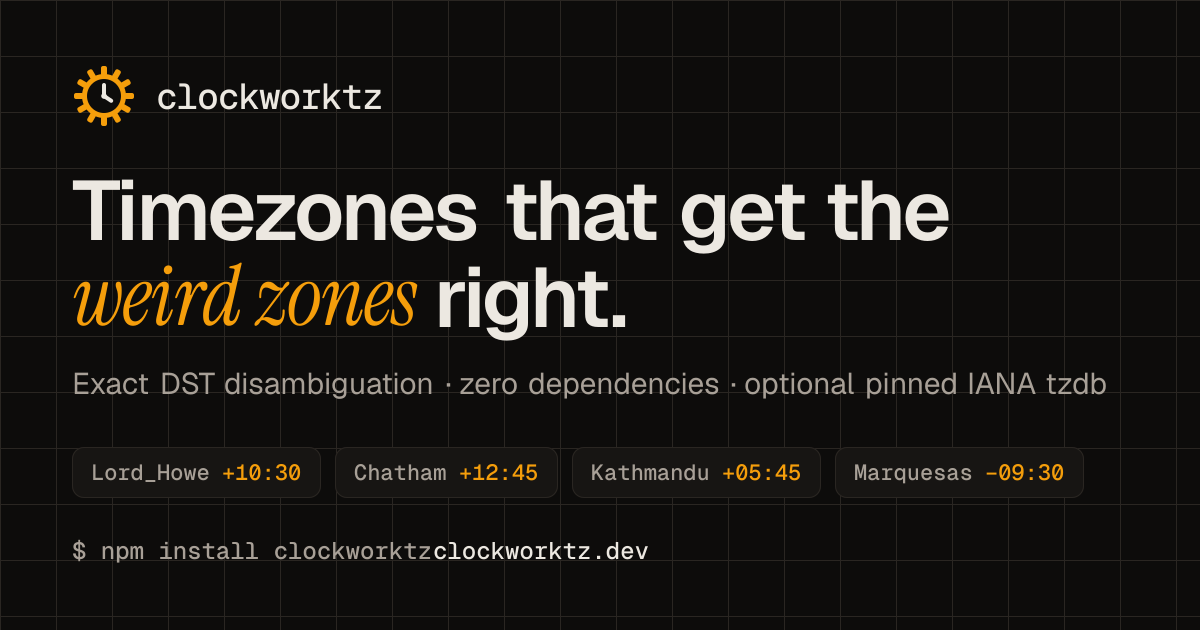
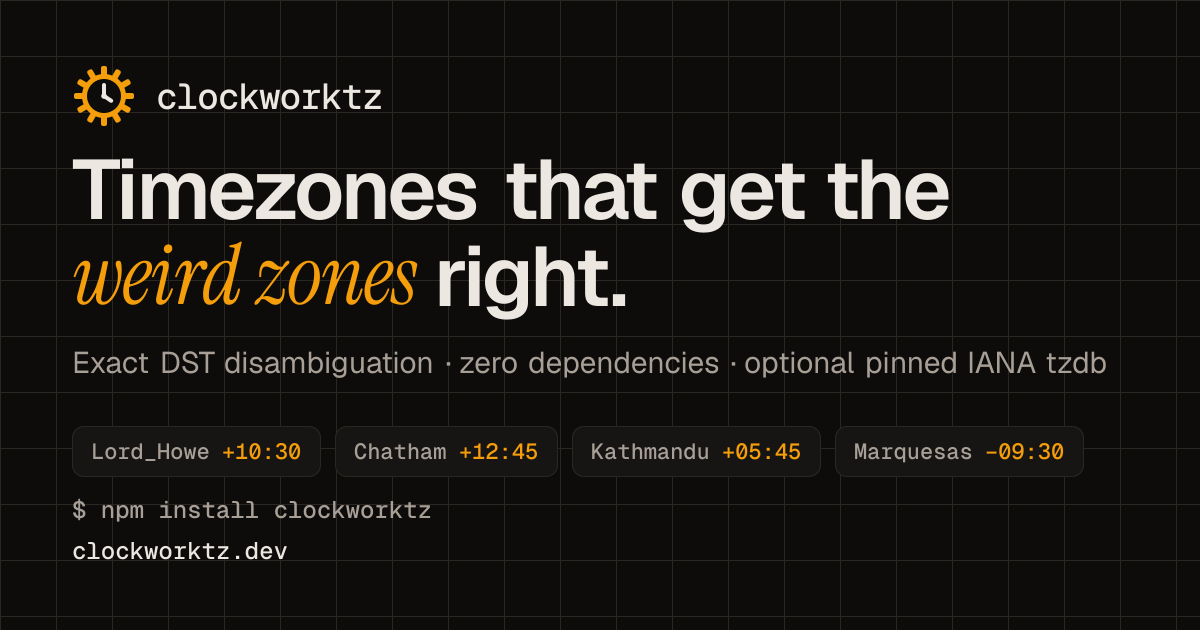
adjust og card

diff --git a/src/lib/og.tsx b/src/lib/og.tsx
@@ -103,10 +103,10 @@ export async function renderHomeOg() {
     (
       <Frame
         footer={
-          <>
+          <div style={{ display: 'flex', flexDirection: 'column', gap: 10 }}>
             <span>$ npm install clockworktz</span>
             <span style={{ color: colors.fg }}>clockworktz.dev</span>
-          </>
+          </div>
         }
       >
         <div style={{ display: 'flex', flexWrap: 'wrap', fontSize: 84, fontWeight: 600, letterSpacing: -3, lineHeight: 1.04 }}>
